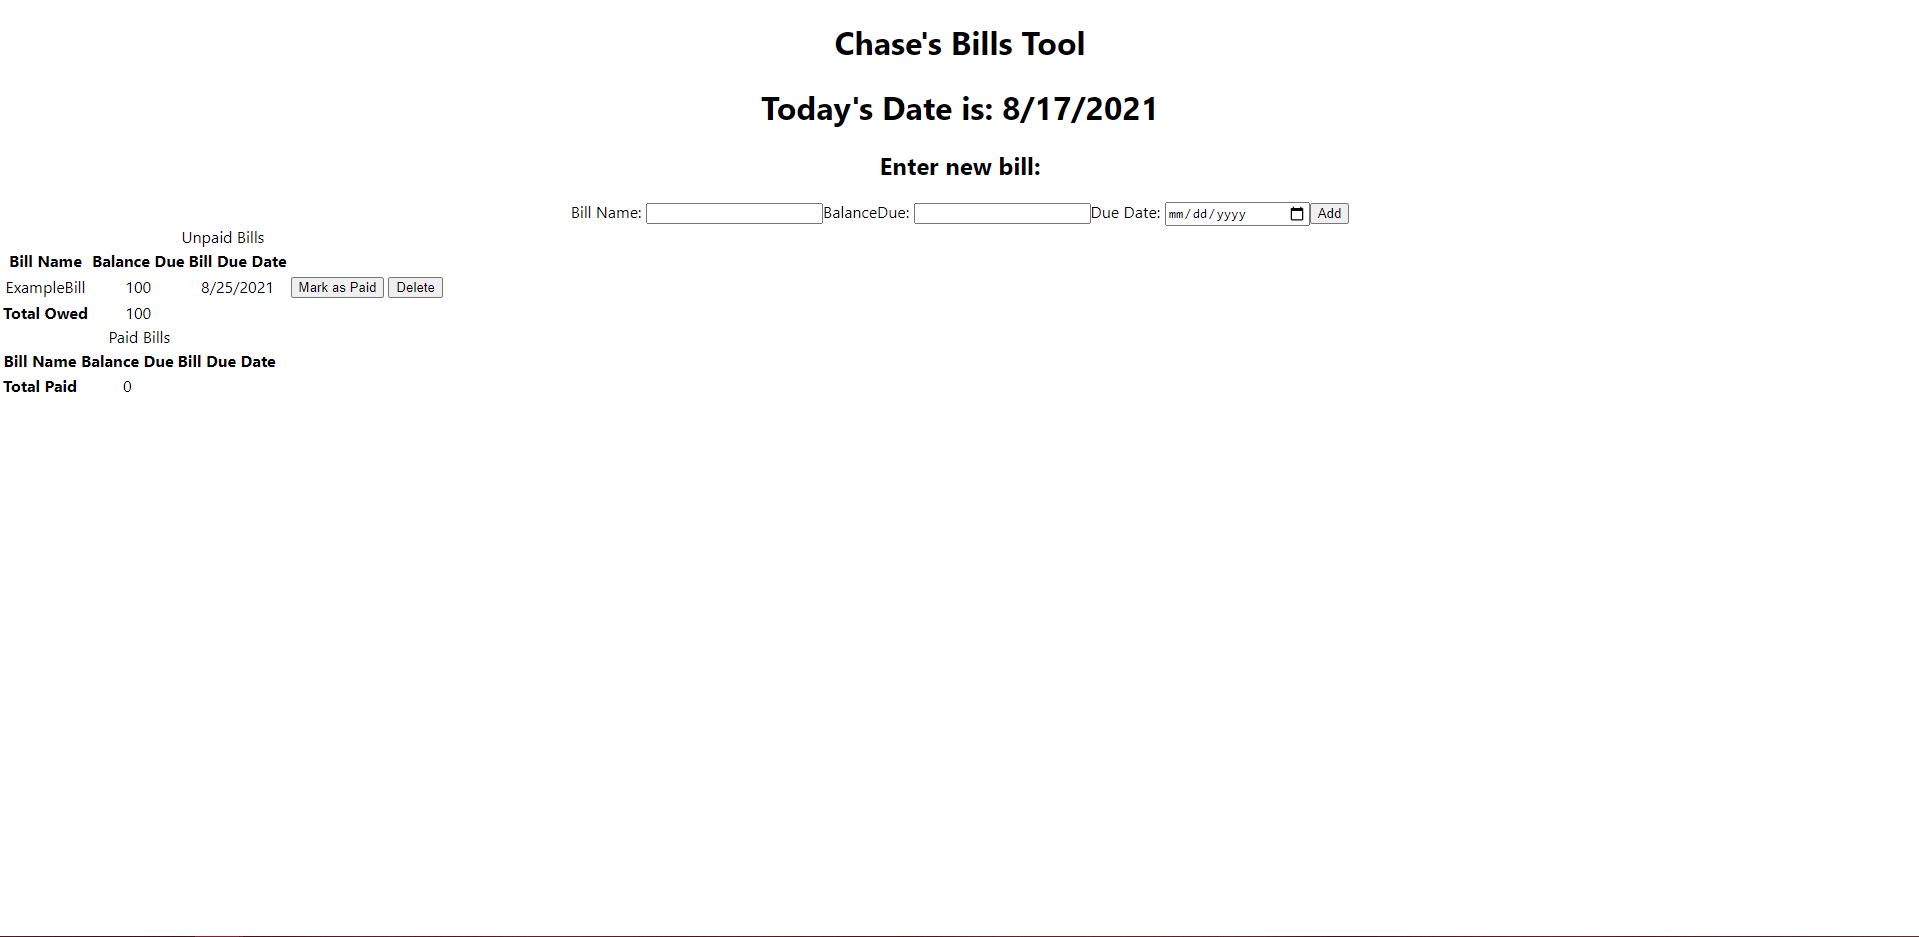
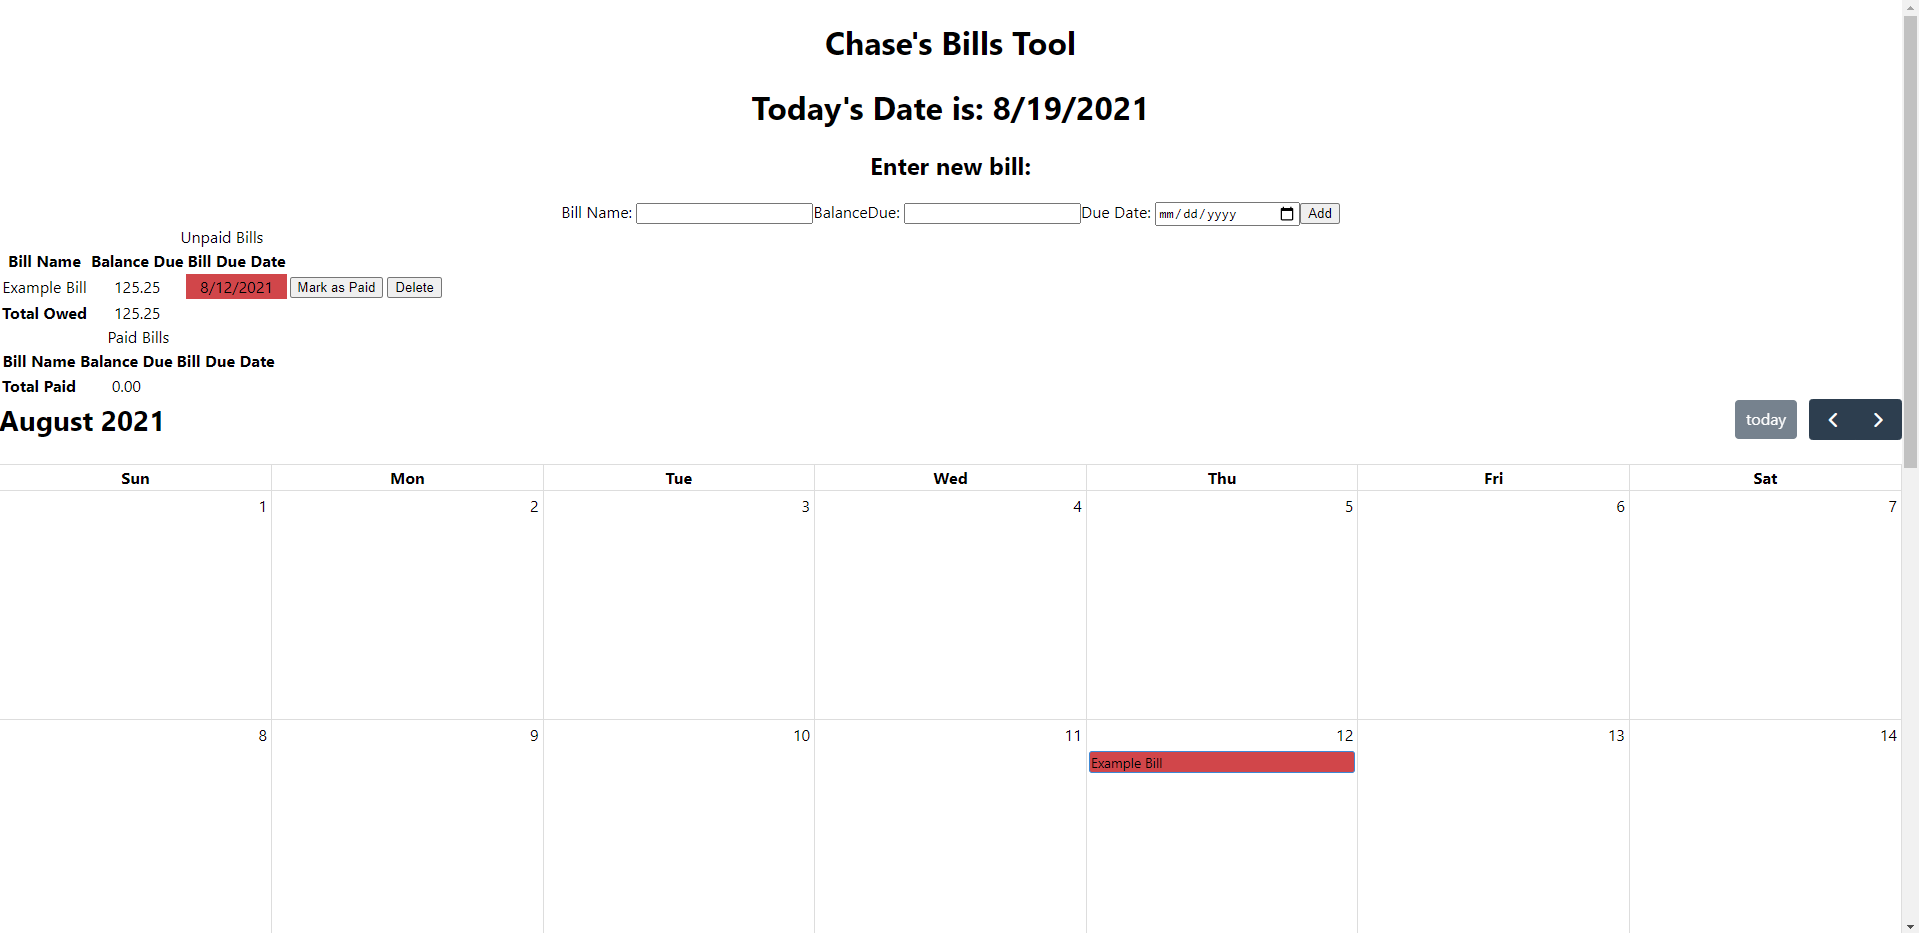
new screenshots, new features!

diff --git a/src/BillListSchedule.js b/src/BillListSchedule.js
@@ -15,10 +15,6 @@ export default function BillListSchedule(props) {
         }))
     }
 
-    const handleDateClick = (arg) => {
-        alert(arg.dateStr);
-    }
-
     return (
         <FullCalendar plugins={[ dayGridPlugin ]} initialView="dayGridMonth" events={billsToEvents(props.billsList)} />
     )
